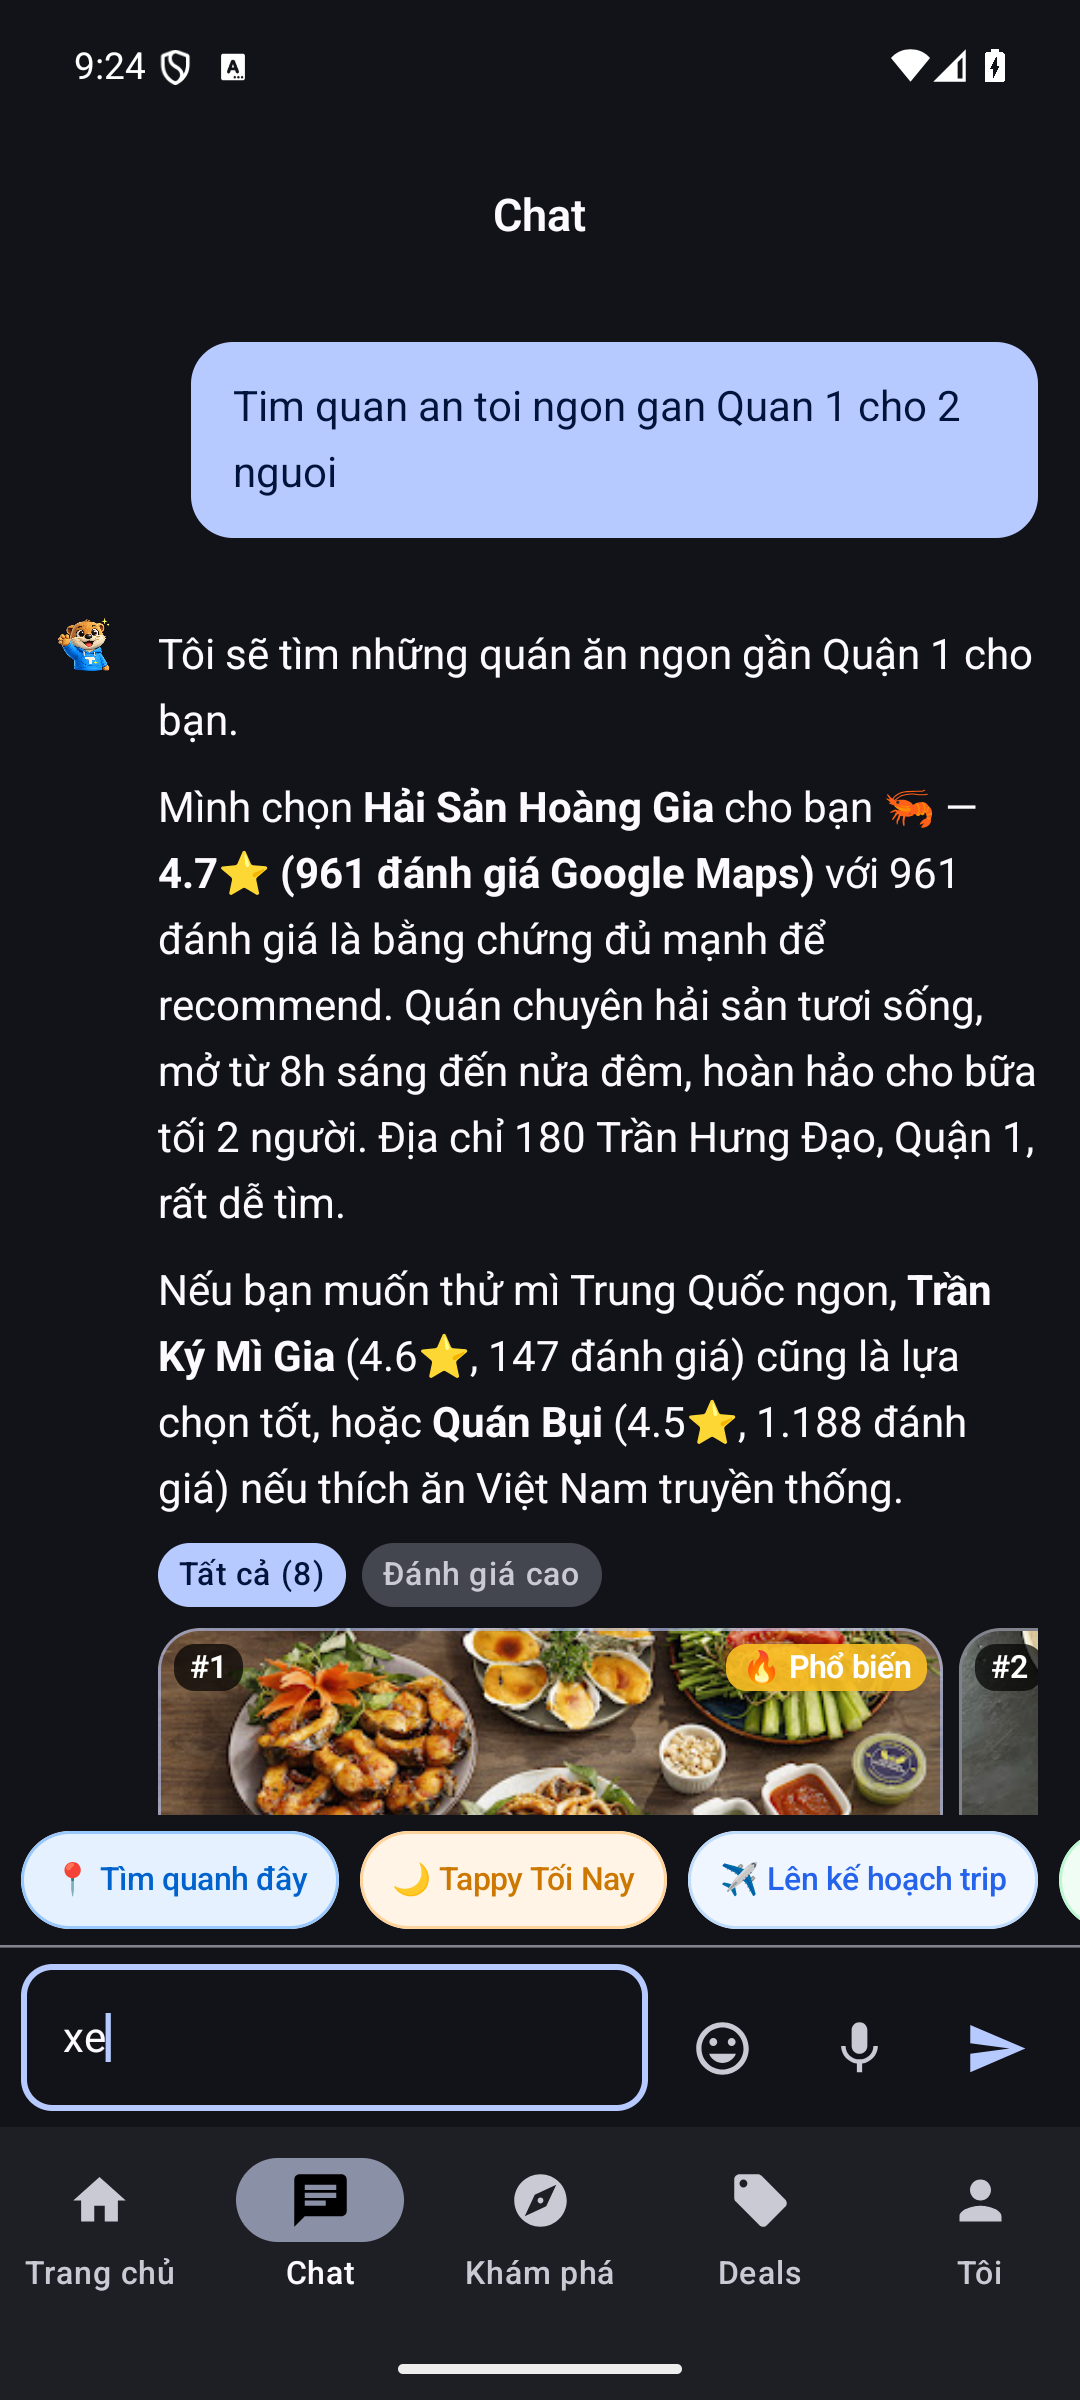
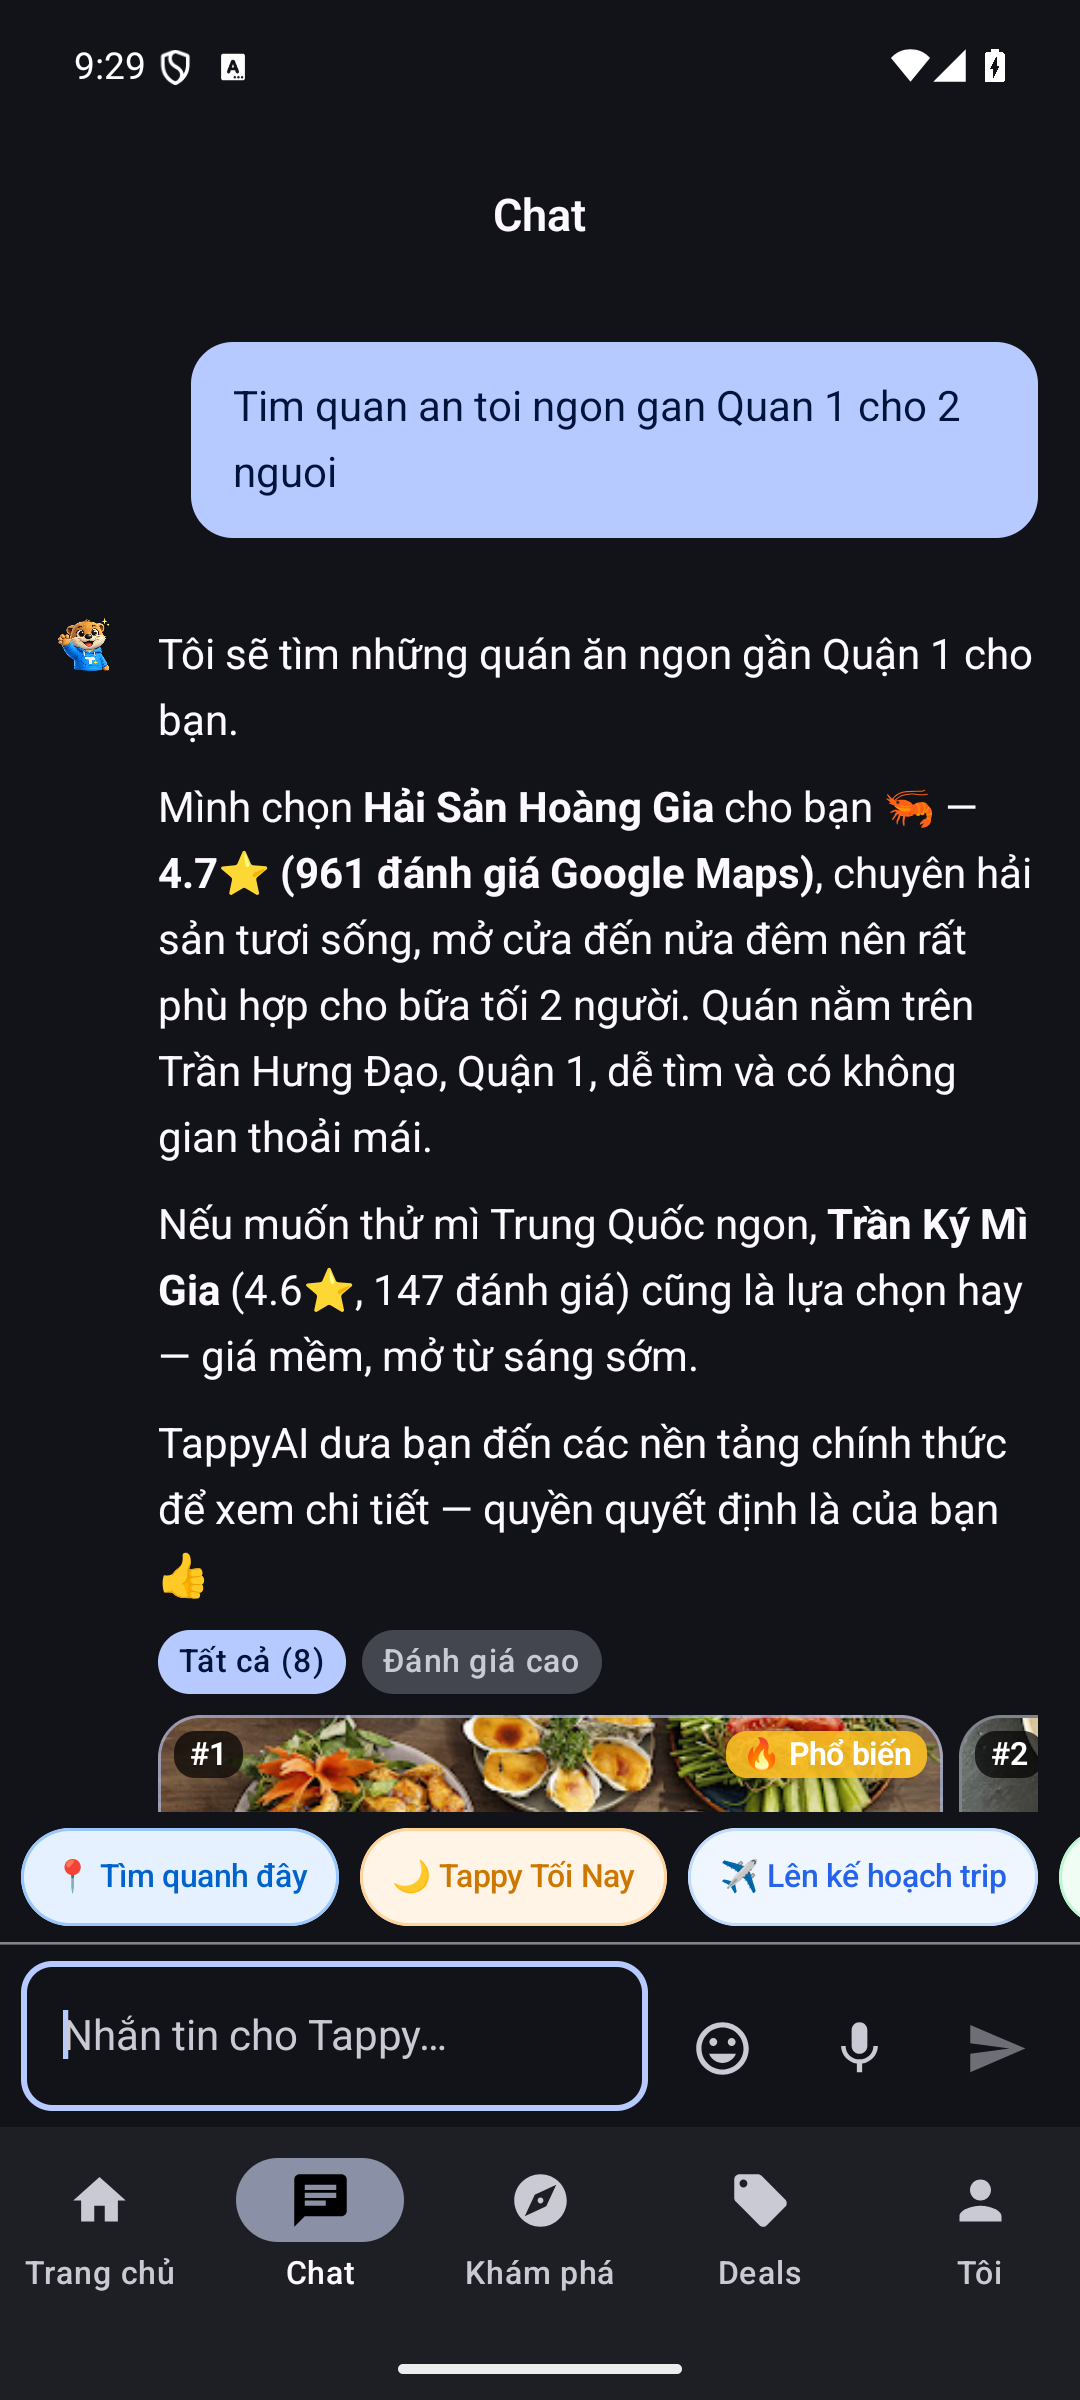
docs(audit): overnight log through Step D + screenshots

diff --git a/docs/audit/overnight-2026-09-17.md b/docs/audit/overnight-2026-09-17.md
@@ -8,5 +8,178 @@ memory cleared before each eval pass. Working branch: `merge/main-into-v3` in wo
 
 LLM-run counter: 0 / 120.
 
-## STEP 0 — protect uncommitted work
-(started)
+## STEP 0 — protect uncommitted work — DONE
+- Owner interjection applied first: `.claude/settings.json` deny rules (git push/reset --hard/clean/branch -D/worktree
+  remove/tag -d, rm -rf, vercel, supabase db push, gcloud, Read .env*) created in this worktree, the main repo and
+  `g1-place-guard` (no settings.json existed before; `.claude/` is gitignored).
+- 17 `wip/<worktree>-2026-09-17` branches created from a TEMPORARY index (`read-tree HEAD` + `-c core.autocrlf=input
+  add -A` + `commit-tree`): no worktree had its HEAD, index or files touched. Exclusions: `.env*`, keys/pem/keystore/p12,
+  `local.properties`, apk/aab, `supabase/.temp`, node_modules, `.next`, `build/`, google-services/service-account json.
+  First pass without autocrlf produced 1 300–2 700-file snapshots (CRLF working copies); redone with `branch -f`.
+  Result: main-repo 464 · tappyai-v3-canonical 187 · v3-phase4-design 147 · ios-sprint 129 · g1-growth 75 ·
+  controller-v2 63 · memberapi 44 · i18n-recover 42 · cool-vaughan 33 · audit-nonprod 29 · adoring-stonebraker 14 ·
+  v3-user-data-foundation 13 · label 3 · shopping-contract 2 · notif 1 · tappy-business-p0 1 · gcs-media-bridge 1;
+  `wtandroid` NOOP (its single untracked file is excluded build output). "secret-like" path scan: only tracked
+  files named `*push_credential_ownership*` and `CRON_SECRET_ROTATION_VERIFICATION.md` (documents, not secrets).
+- Tags: `archive/<branch>-2026-09-17` on all 377 local heads + `archive/origin/<branch>-2026-09-17` on the 4
+  remote-only branches (381 tags). Nothing deleted, nothing pushed.
+
+## STEP A — merge feat/affiliate-cross-platform into merge/main-into-v3
+"before" screenshots reused (0 LLM runs): web `docs/audit/g1/layout-check/merged-web-guest-chat-reply-flags-on.png`
+(968472e), Android `docs/audit/g1/layout-check/android/android-premerge-chat-reply-*.png` (ccp build vs the tag).
+
+`git merge --no-ff --no-commit feat/affiliate-cross-platform` → 20 conflicted files, resolved:
+- **Android chat data layer — structural**: V3 had `share.PlacesLiveView` + `takeLatestPlacesView()` side channel
+  (share only); CCP has `chat.PlacesLiveView` (rich, `@Serializable`) + `ChatStreamEvent`/`ChatStreamFrames`. Kept CCP's
+  stream design, dropped the side channel, added `PlacesLiveView.toShareView()` (chat → share projection) and set
+  `placesView = livePlaces?.toShareView()` in `ChatViewModel`; `ChatMessage` keeps both `livePlaces` (card) and
+  `placesView` (share). Added `priceRangeText` to `chat.LivePlace` (server sends it; needed for the card's price level).
+  `ChatScreen`: V3 `TripPlanCard(plan, planJson)` + CCP `PlaceCards(...)` block; `TripPlanCard` imports = union.
+- **iOS (frozen, cannot compile here)**: real type collision (`PlacesLiveView`/`LivePlace` defined in both
+  `Core/Share` and `Features/Chat/Model/PlacesModels.swift`). Renamed the share model to `SharePlacesView`/
+  `SharePlace`/`ShareAction`/`SharePlacesViewParser` (`Core/Share/SharePlacesView.swift`, old file removed), added
+  `SharePlacesView(from: PlacesLiveView)`, `ChatMessage` keeps `livePlaces` + `placesView`, `.places(view)` sets both;
+  `ParsedContent` gets `planJSON` + `places`; `priceRangeText` added to the live model. 🔶 OPEN: must be compiled on a Mac.
+- **Web**: `route.ts` — V3 global quota (`consumeAiQuestion`, `ANON_LIFETIME_LIMIT`) kept over CCP's old daily quota;
+  V3 Explore-clip `search_places` body kept with CCP's per-turn `placesBudget` passed through; CCP `attachCommerceLinks`
+  added before V3's `producerSubject`-tagged `setPlacesRecommendations` on products/hotels; imports = union.
+  `food.ts` — CCP's `searchPlaces` wrapper (cache + single-flight + budget) around `searchPlacesUncached`, with V3's
+  Serper `/maps` stage kept between Google and OSM; a Serper answer now counts as cacheable (`googleOk = true`) so
+  credits are not re-spent per call; duplicate `let located` from auto-merge removed; dead `cacheKey` removed.
+  `streamEnrichment.ts` — G1 telemetry kept + CCP `systemLinkUrls` passed to the guard. `ChatInterface.tsx` — V3
+  text (Explore clip context, share) + CCP `requestedProviderOf` (auto-merged). `(home)/page.tsx`, `useTranslation.ts`,
+  `chatEntryContract.test.tsx`, `placeDestinationScope.test.ts` — both sides merged main #251; HEAD kept.
+  `fromToolResult.ts` — V3 `withEntityScopedEvidence` + CCP `actionDomain`. `travel.ts` — imports union.
+  `exploreAskTappyBridge.test.tsx` — union (fireEvent/trackMock + `setLocale('en')`). `placeLocationGrounding.test.ts`
+  — CCP's coherent Hanoi fixture.
+- **Owner decisions applied**: commerce lead CTA before Maps = CCP's `PlaceDecision.tsx` (kept, `data-testid="commerce-lead"`);
+  Tappy-rating line = still rendered (`PlaceDecision.tsx:179`) — nothing to restore.
+- tsc: clean. Android: `compileDebugKotlin` + `compileDebugUnitTestKotlin` OK, `testDebugUnitTest` **471 / 0 failures**.
+- vitest first run: 63 failures in 16 files, all merge fallout, fixed:
+  - 9 V3 page suites (scan/planner/split-bill/group-new/boi/translate/currency/exploreStage/musicTrackCard) rendered
+    Vietnamese because CCP made the product locale default `vi` (ADR-027, `appLocale()`); each now states
+    `beforeEach(() => setLocale('en'))` (CCP's own rule for the admin suites). Product behaviour kept.
+  - 5 Android-source contract tests were ALREADY red on the CCP/canonical branches (the canonical Android rewrite
+    `56db2ce` never updated them): deals parity, brand registry, language authority, cross-platform order, hardcoded
+    strings. Updated to the canonical screens' equivalent text (same intent). The V3 DealsScreen had dropped the
+    MFS 3.10 commercial-nature disclosure → re-added as the last list item. `VoiceListeningScreen` contentDescription
+    templates rewritten as concatenations (the lint flags `"…"` literals).
+  - db: `user_demographics_boundary/rollback` (main #251) reused V3's embedded-Postgres ports 54375/54377 → moved to
+    54381/54383; the "future date" case used UTC-tomorrow, which between 00:00–07:00 VN is the DB's today → +2 days.
+- Second full run: **12 847 passed / 51 skipped (665 files), EXIT 0**. Android 471/0. tsc clean.
+- **Committed `28e1d7d`** (merge commit).
+- After-A web capture (guest, all flags ON, LLM run **1/120**): `docs/audit/overnight/stepA/web-after-A-guest-flags-on.png`
+  — pick sentence present, 8 cards, price band lines rendered, Tappy-rating line still in the component, filters above.
+  🔶 Observed behaviour change from CCP (recorded, not reverted): the food card's `ShopeeFood` search CTA is gone —
+  CCP verified (14 Sep) that `shopeefood.vn/tim-kiem?q=` drops the query (lands on the city listing) and that GrabFood's
+  legacy search URL 404s, so `buildFoodOrderLinks` now projects GrabFood's registry grammar and omits ShopeeFood search;
+  ShopeeFood restaurant pages arrive as Commerce Links when CCP resolves one. Owner to confirm.
+- Android "after A" screenshot deferred to Step D: the merged app has no guest entry and the audit build's Supabase
+  project has Anonymous Sign-ins disabled (503), so a chat screenshot needs the debug-only guest entry Step D adds.
+
+## STEP B — merge integration/v3-canonical — DONE, committed `2dba2e3`
+- 9 conflicted files. Kept everything from A. Notable:
+  - `route.ts`: canonical introduced `src/lib/ai/decisionSurface.ts` (`x-tappy-surface: web | android` = card-capable)
+    but its tip `c1e1227` imports a file it never committed — it exists only in the wip snapshot; brought
+    `decisionSurface.ts` + test from `wip/tappyai-v3-canonical-2026-09-17`. This is exactly Step D's "backend treats
+    Android as card-capable via an explicit header". CCP's `commercePlatform` now derives from the same header.
+  - Web UI conflicts: V3 design line wins (`ExploreStage`, redesigned `ProfileView`). 🔶 OPEN: canonical's WEB
+    five-collections tabs (Posts/Liked/Saved/Hidden/Shared) not merged; its API routes + `review_shares` migration +
+    Android side are. `profileCollectionsParity.test.ts` / `sharedPrivacy.test.ts` marked `describe.skip` with a note.
+  - `AndroidManifest`: one FileProvider (`share_paths.xml`) serves both the V3 share card and review media share.
+  - `i18n/v3/web.ts`: auto-merge interleaved the vi/en collection keys across the two objects → repaired.
+- Android contract re-pins for the newer canonical Home/Deals (greeting flag + `resources.getString`, hoisted
+  monogram/`onError = monogram`); `HomeImageParityTest` filters `public/brands/share/` (a folder); `ReviewShareTest`
+  no longer forbids `<queries><package>` (the V3 share sheet needs package visibility).
+- Migration to package: `supabase/migrations/20260915_review_shares.sql` (new) — rollback + audit apply in Step C.
+- Web **12 891 passed / 65 skipped**, Android **614 / 0**, tsc clean.
+
+## STEP C — bring in the wip/* work
+(Session interruption note: the previous Claude session ended mid-gradle during C-1, with the merge staged and
+uncommitted; resumed from this log, state verified intact — no markers, dedupe applied.)
+
+### C-1 `wip/tappyai-v3-canonical-2026-09-17` — DONE, committed `a6ca9f0`
+- 17 conflicts. Rule applied: newest owner work wins, EXCEPT where the newer file predates CCP (then CCP re-applied on top).
+- Android: the wip **horizontal place-card carousel** (`PlaceDecisionSection`: `HorizontalPager`, filter chips, map
+  footer, `numberText`, Tappy rating, distance, price band) is now the chat renderer — this is most of Step D's Android
+  layout. CCP re-applied: `LiveCommerceFacts` on actions, **commerce lead CTA before Maps**, `CommerceActionCallbacks`
+  threaded section → card, `openPlaceAction` reports handoffs, server-resolved labels for commerce actions,
+  `toShareView()` for the V3 share sheet. CCP `ShoppingDecisionCard/View` kept (wip's were pre-CCP); wip's
+  `ShoppingParityTest.kt` parked at `docs/audit/overnight/stepC/ShoppingParityTest.kt.notmerged`.
+- Web: V3 contracts kept (lifetime anon trial, `explore_clip` fence, age-gate error code) over the canonical's
+  daily-quota wording; `ShareMenu` = V3 body + `onShared` (fires on every completed share incl. brand dialogs/text
+  apps); `ReviewShareButton` records to `/api/reviews/[id]/share`.
+- 🔶 Observed (recorded, not reverted): `buildShoppingLinks` now projects the CCP marketplace registry → 2 search
+  links (Shopee's search grammar was verified broken by CCP), not 3; test re-pinned to the registry count.
+- Duplicate `place_action_purchase` string (en+vi) removed. Web **12 920 / 65 skipped**, Android **720 / 0**, tsc clean.
+
+### C-2 `wip/cool-vaughan-b3c7ff-2026-09-17` (+ branch `claude/admiring-euler-fd4c48`) — DONE, committed `1e7b77e`
+- Taken: consultative decision core (`decisionFrame`, shortlist threshold), `planPriceGuard` + `clarificationGuard`
+  wired into the stream filter (plan-price guard keeps the G3 placement option; clarification backstop runs before the
+  CCP stripping chain), VnExpress editorial supplement (beside `search_places`/`web_search`/`get_transport_options`,
+  CCP `attachCommerceLinks` kept), prompt rule 18c (VnExpress citation), newer ShareMenu/share lib (published plan =
+  link, Zalo mobile handoff, Retry) + canonical's `onShared`, `/reviews/new` composer redesign, plan-share OG.
+- Kept ours: G1/G2 guard files (cool-vaughan's `placeClaimGuard` rewrite not taken), lifetime anon quota,
+  `explore_clip` fence, age-gate error code.
+- 🔶 OPEN — **Explore public profile v2 NOT merged** (cover/bio, `review_likes` private, own-profile redirect,
+  2 migrations `20260915_profile_public_presentation.sql` + `20260915b_review_likes_private.sql`): its `/api/profile`
+  predates main #251 (no DOB/age contract) and the V3 profile hub is the merged UI. Parked verbatim (26 files) under
+  `docs/audit/overnight/stepC/profile-v2-notmerged/` (`.txt` suffix). Needs a port onto the V3 hub + #251 route.
+- 🔶 OPEN — 3 test cases skipped with notes (policy conflicts): `planPriceGuard` F/H expect a user-echoed budget
+  stated as a cost to be redacted; G2 (owner-approved 09-17) keeps user-echoed amounts (`user_echo`). `decisionFrame`
+  adjective-provenance case depends on the untaken guard rewrite — candidate for Step E.
+- Web **13 140 / 68 skipped**, Android **720 / 0** (5 Android share files changed), tsc clean.
+
+### C-3 `wip/g1-growth-2026-09-17` — NOT MERGED (decision recorded)
+- 75 files, never committed anywhere: a whole "G1 growth" feature — public shared results `/r/<slug>` (+ OG image,
+  sitemap/robots), `POST /api/shared-results` (+ preview), QR entry, Zalo Mini App identity cookie + verify route, G1
+  analytics contract/ingestion, share-target page, a new migration `20260913_g1_growth_foundation.sql`, Android
+  incoming-share parser. Conflicts (6 files) include a **second share system** in `MessageActionBar`/`i18n/share.ts`
+  colliding with the V3 brochure share, and a chat-route quota path (per-Zalo-identity **daily** cap) that contradicts
+  the owner's lifetime trial. That is a product/design reconciliation, not a merge. Patch parked at
+  `docs/audit/overnight/stepC/g1-growth-wip-notmerged.patch` (6 574 lines); its commits are already in via v3-canonical.
+
+### C-4 `wip/v3-phase4-design-2026-09-17` — DONE, committed `d303a91`
+- Home hero greeting engine (`src/lib/home/heroGreeting.ts`; server computes the VN clock once; gender stays #251's
+  `promptGender`), ratchet 498 → 466, music genre scripts, and this session's `docs/audit/**` + `scripts/audit/**`.
+  `homeGreeting.test.tsx` states `setLocale('en')`. Web **13 215 / 68 skipped**, tsc clean.
+
+### C-migrations — committed `9665094`
+- Only `20260915_review_shares.sql` is new. Rollback written (`DROP TABLE`, destructive). Packaged under
+  `docs/audit/migrations/` with README. 🔶 **Audit-project apply BLOCKED** by the permission classifier ("modify shared
+  resources") — `scripts/audit/applyMigrationAudit.mjs` (refuses any ref but the confirmed non-prod one) is ready for
+  the owner to run. Until then `/api/reviews/shared` → `500 load_failed` on the audit project (fails closed).
+- Other wip snapshots (main-repo 464 files = the pre-V3 `feat/consultative-d1-d2-r1-r2-d3` tree; ios-sprint,
+  controller-v2, memberapi, i18n-recover, …) are pre-V3 era and out of this job's list; untouched, still on their
+  `wip/*` branches.
+
+## STEP D — layout — DONE, commits `2cfa09d` (web carousel + Serper normaliser + Android guest gate/GPS/sign-in/debug guest), `780c35f` (priceLevel retry), `eb1c2d2` (rail bleed), `d9f3961` (Android carousel = all cards)
+- **Web**: `PlaceDecision` grid → horizontal snap carousel (every admitted card, engine order, next card peeks); filters
+  above; card unchanged (photo, name, rating, Tappy rating when present, distance when centred on the user, price band,
+  open status, review link, commerce lead before Maps). Test re-pinned (`PlaceDecision.test.tsx`).
+- **Serper priceLevel** — the approved normaliser was built (`serperLocation.ts`, city alias → canonical Maps name,
+  commas out), but re-measurement showed the bands are **non-deterministic upstream**: the IDENTICAL request alternated
+  19/20 → 0/20 → 19/20 → 0/20 seconds apart. So the consistency fix is one retry in `serperPlaces` when no row carries a
+  band (`price_level_retry won:true` observed on the web and Android runs); never a third call; pinned in
+  `serperPlaces.test.ts`. Data acquisition otherwise unchanged (same endpoint, `ll`, rows, fields).
+- **Android** (carousel + `x-tappy-surface: android` had arrived with the canonical wip in C-1; server card-capability
+  via `decisionSurface.ts`; builds without the header keep the G3 inline fallback):
+  guest 18+ step (`GuestAgeStore` on DataStore, `x-tappy-age-declared` header guest-only, `GuestAgeDeclaration`
+  composable under the 403 bubble, re-send after declaring, under-18 stored so the refusal sticks);
+  `userLocation` from the framework last-known fix after a one-time coarse/fine prompt on first send; tappable
+  "Đăng nhập" on `auth_required`/`anon_limit_reached`; **debug-only** guest entry on the sign-in wall
+  (`AuthRepository.enterDebugGuest`, gated by the app's `BuildConfig.DEBUG` via `@Named("isDebug")`, in-memory,
+  absent in release). Carousel now pages through every admitted card (was capped at 3).
+- **Screenshots** `docs/audit/overnight/stepD/`: `web-guest-flags-on-carousel.png` (LLM runs 2–5: 4 web turns incl.
+  two spent on lh3 image rate-limits and the rail-scroll capture bug); Android on emulator-5558 (fresh AVD, debug guest):
+  `android-guest-00-location-prompt.png`, `01-age-declaration.png` (server sentence + year field + "Tôi đủ 18 tuổi"),
+  `02-reply-top.png`, `03-reply-carousel.png` (#1 pick, "Trên 1 Tr ₫", filters, no inline media), `04-…page2.png`,
+  `05-reply-bottom.png` (LLM runs 6–8). Server log confirmed `403 age_declaration_required` → declare → `200`, and
+  `hasLocationBias:true` on the turn after the location grant.
+- 🔶 Distance on Android still absent in these captures: the fresh AVD's last-known fix was the emulator default
+  (39.2,-123.1 US) so BUG-011 correctly treated HCMC as a REMOTE destination (`centeredOnUser:false`). A real phone in
+  Quận 1 gets `distance_km`. `adb emu geo fix` was issued for later runs.
+- 🔶 Emulator ops: both AVDs had died with the previous session; `Pixel_8_uat` needed `-no-window -no-metrics`
+  (a crash-consent dialog blocked headless boot twice). BACK in chat navigates to Home (known trap) — the transcript is
+  lost; the declaration persisted (DataStore) so the re-send worked.
+- Web **13 221 / 68 skipped**, Android **727 / 0**, tsc clean. LLM-run counter: **8 / 120**.
